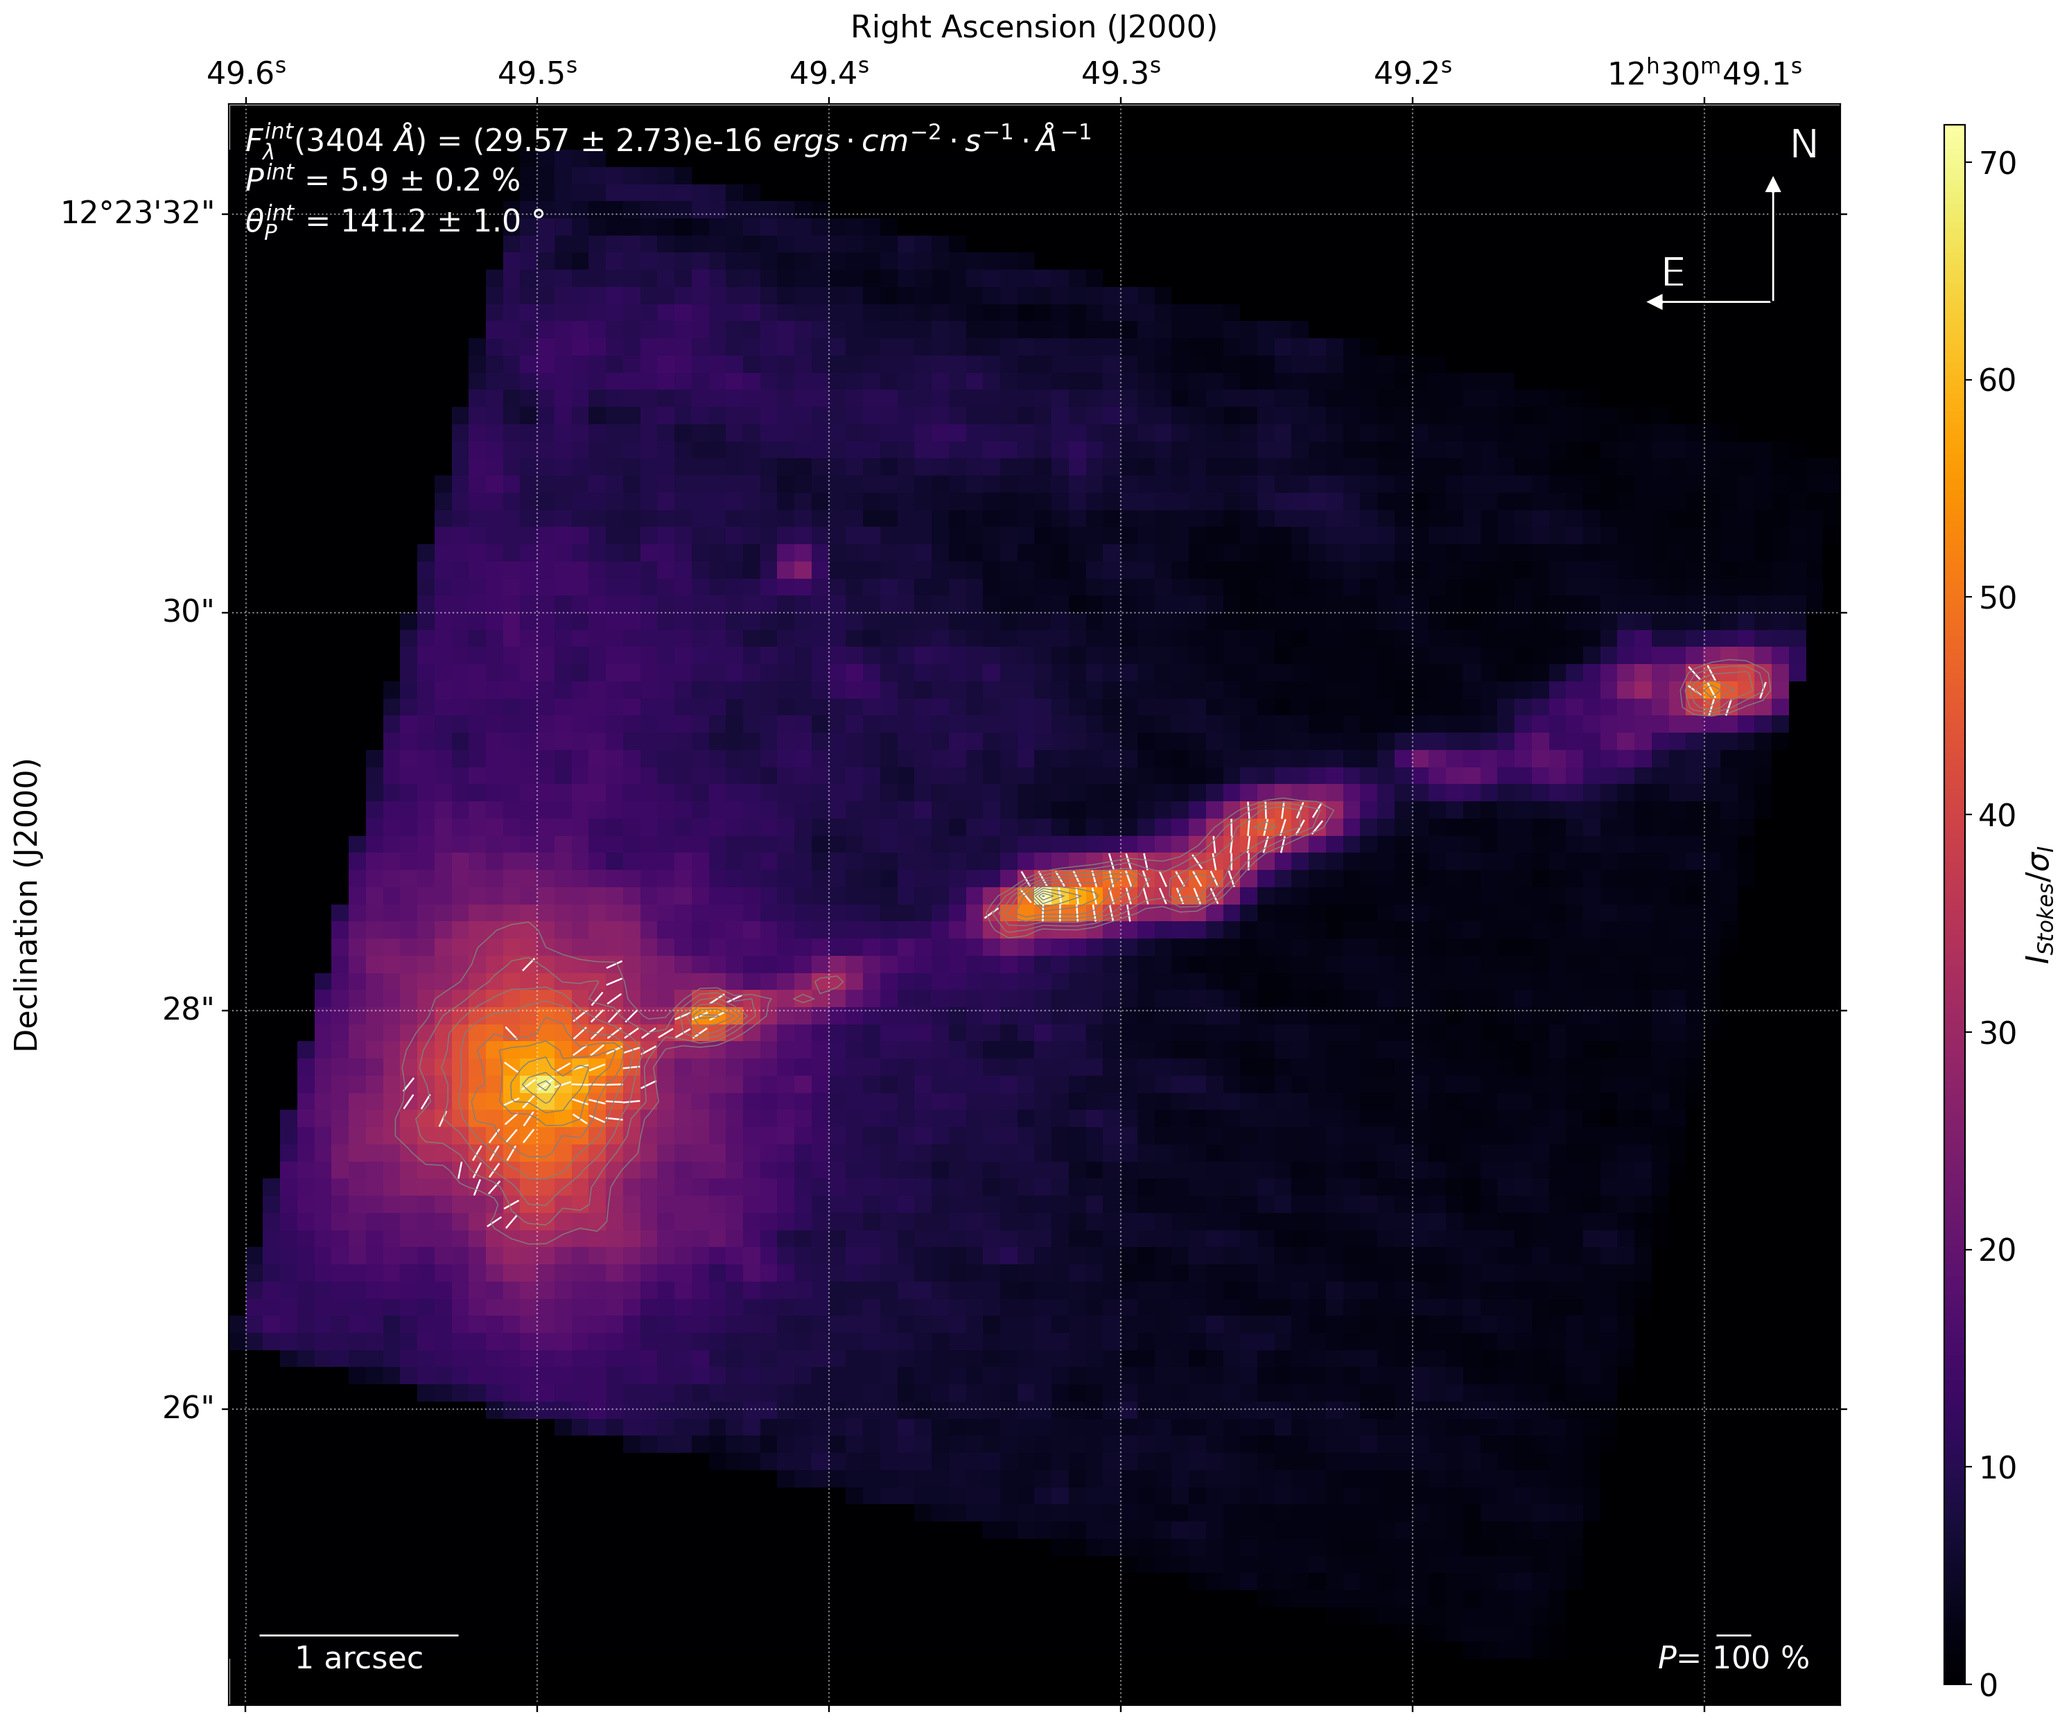
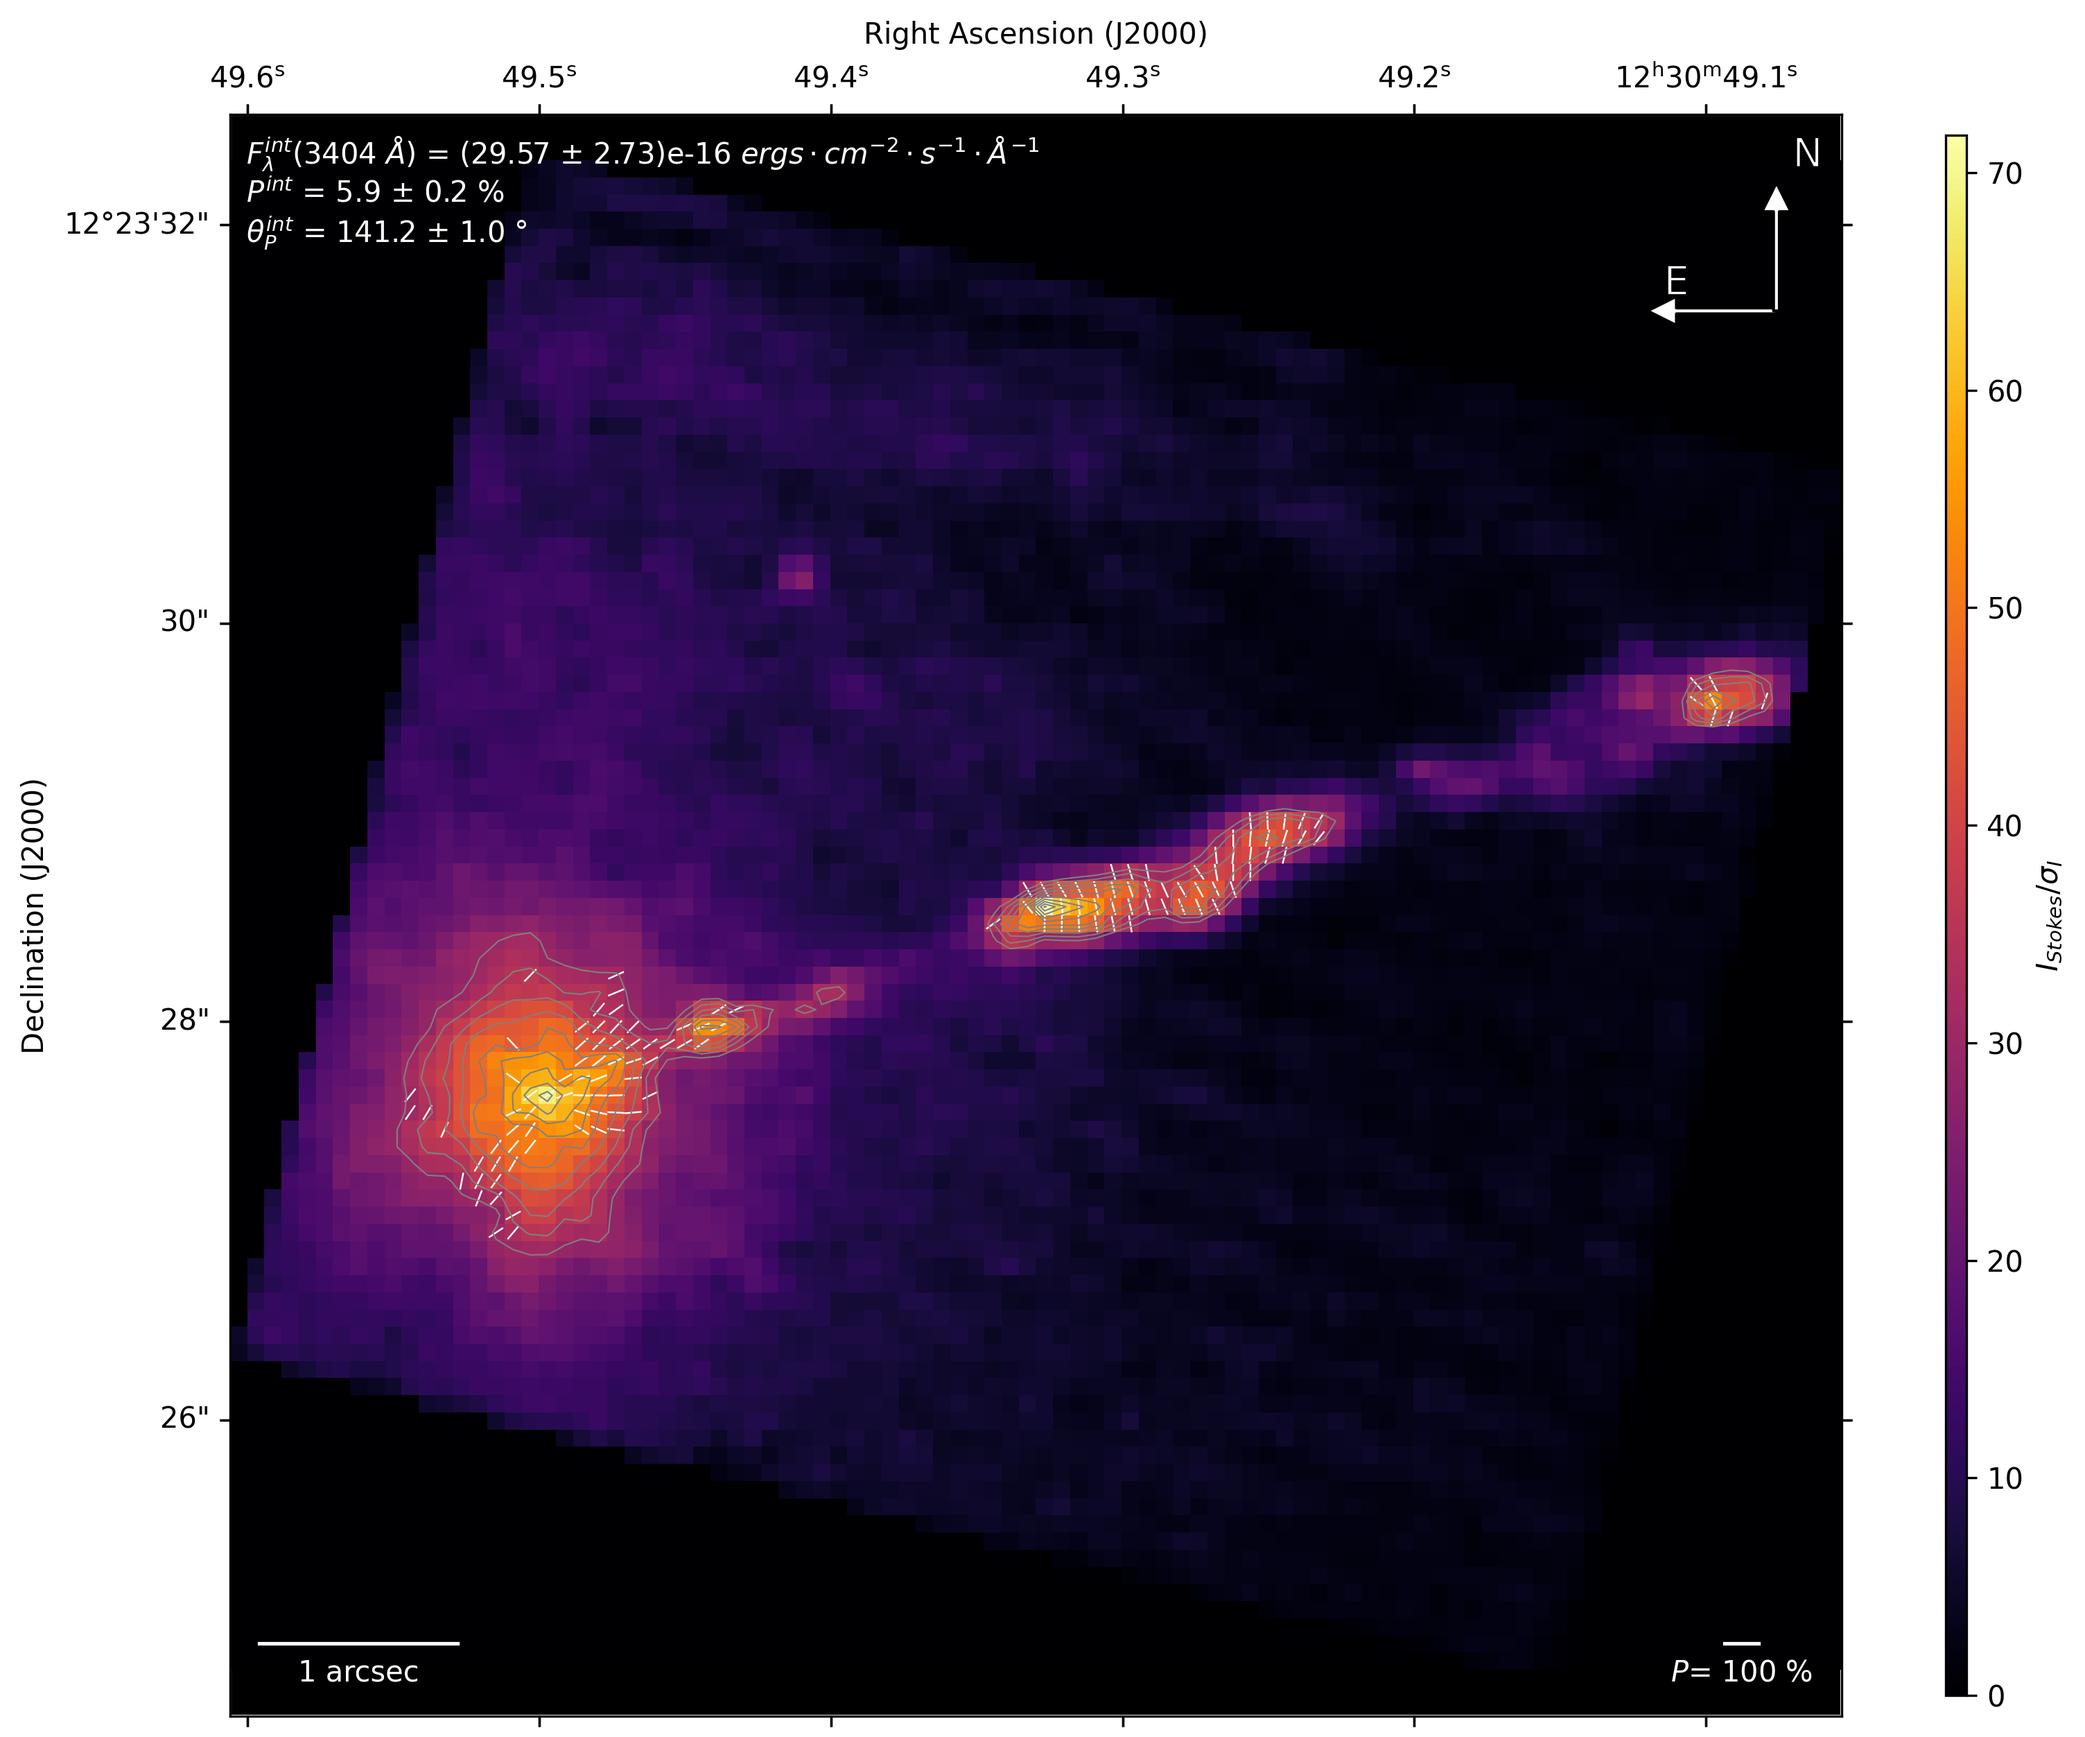
remove WCS grid, put intensity map in logarithmic scale

diff --git a/src/lib/plots.py b/src/lib/plots.py
@@ -43,6 +43,7 @@ from matplotlib.patches import Rectangle, Circle
 from matplotlib.path import Path
 from matplotlib.widgets import RectangleSelector, LassoSelector, Button, Slider, TextBox
 from matplotlib.colors import LogNorm
+from matplotlib.ticker import LogFormatter 
 import matplotlib.font_manager as fm
 from mpl_toolkits.axes_grid1.anchored_artists import AnchoredSizeBar, AnchoredDirectionArrows
 from astropy.wcs import WCS
@@ -359,8 +360,10 @@ def polarization_map(Stokes, data_mask=None, rectangle=None, SNRp_cut=3., SNRi_c
         #ax.clabel(cont,inline=True,fontsize=6)
     else:
         # Defaults to intensity map
-        vmin, vmax = 0., np.max(stkI.data[stkI.data > 0.]*convert_flux*2.)
-        im = ax.imshow(stkI.data*convert_flux, vmin=vmin, vmax=vmax, aspect='equal', cmap='inferno', alpha=1.)
+        vmin, vmax = np.min(stkI.data[SNRi > SNRi_cut]*convert_flux)/10., np.max(stkI.data[SNRi > SNRi_cut]*convert_flux)
+        #im = ax.imshow(stkI.data*convert_flux, vmin=vmin, vmax=vmax, aspect='equal', cmap='inferno', alpha=1.)
+        #cbar = plt.colorbar(im, cax=cbar_ax, label=r"$F_{\lambda}$ [$ergs \cdot cm^{-2} \cdot s^{-1} \cdot \AA$]")
+        im = ax.imshow(stkI.data*convert_flux, norm=LogNorm(vmin,vmax), aspect='equal', cmap='inferno', alpha=1.)
         cbar = plt.colorbar(im, cax=cbar_ax, label=r"$F_{\lambda}$ [$ergs \cdot cm^{-2} \cdot s^{-1} \cdot \AA$]")
 
     #Get integrated values from header
@@ -395,7 +398,7 @@ def polarization_map(Stokes, data_mask=None, rectangle=None, SNRp_cut=3., SNRi_c
         if display.lower() == 'default':
             ax.add_artist(px_sc)
             ax.add_artist(north_dir)
-        ax.annotate(r"$F_{{\lambda}}^{{int}}$({0:.0f} $\AA$) = {1} $ergs \cdot cm^{{-2}} \cdot s^{{-1}} \cdot \AA^{{-1}}$".format(pivot_wav,sci_not(I_diluted*convert_flux,I_diluted_err*convert_flux,2)), color='white', xy=(0.01, 0.92), xycoords='axes fraction')
+        ax.annotate(r"$F_{{\lambda}}^{{int}}$({0:.0f} $\AA$) = {1} $ergs \cdot cm^{{-2}} \cdot s^{{-1}} \cdot \AA^{{-1}}$".format(pivot_wav,sci_not(I_diluted*convert_flux,I_diluted_err*convert_flux,2)), color='white', xy=(0.01, 0.97), xycoords='axes fraction')
 
     # Display instrument FOV
     if not(rectangle is None):
@@ -405,7 +408,7 @@ def polarization_map(Stokes, data_mask=None, rectangle=None, SNRp_cut=3., SNRi_c
             edgecolor=color, fill=False))
 
 
-    ax.coords.grid(True, color='white', ls='dotted', alpha=0.5)
+    #ax.coords.grid(True, color='white', ls='dotted', alpha=0.5)
     ax.coords[0].set_axislabel('Right Ascension (J2000)')
     ax.coords[0].set_axislabel_position('t')
     ax.coords[0].set_ticklabel_position('t')
